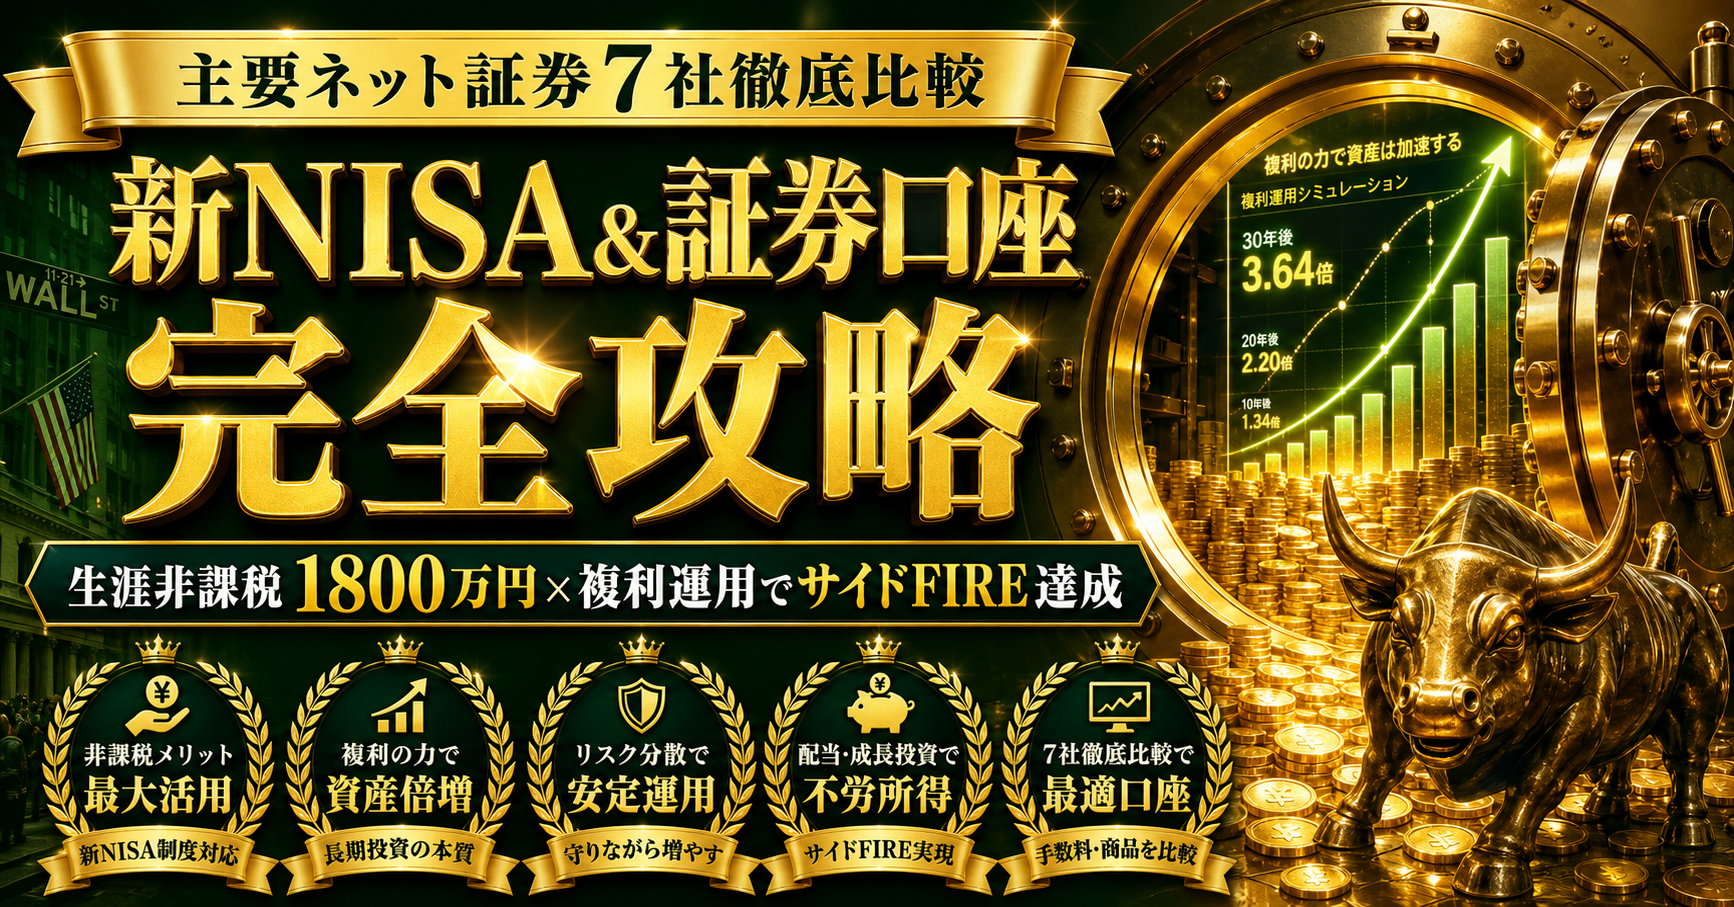
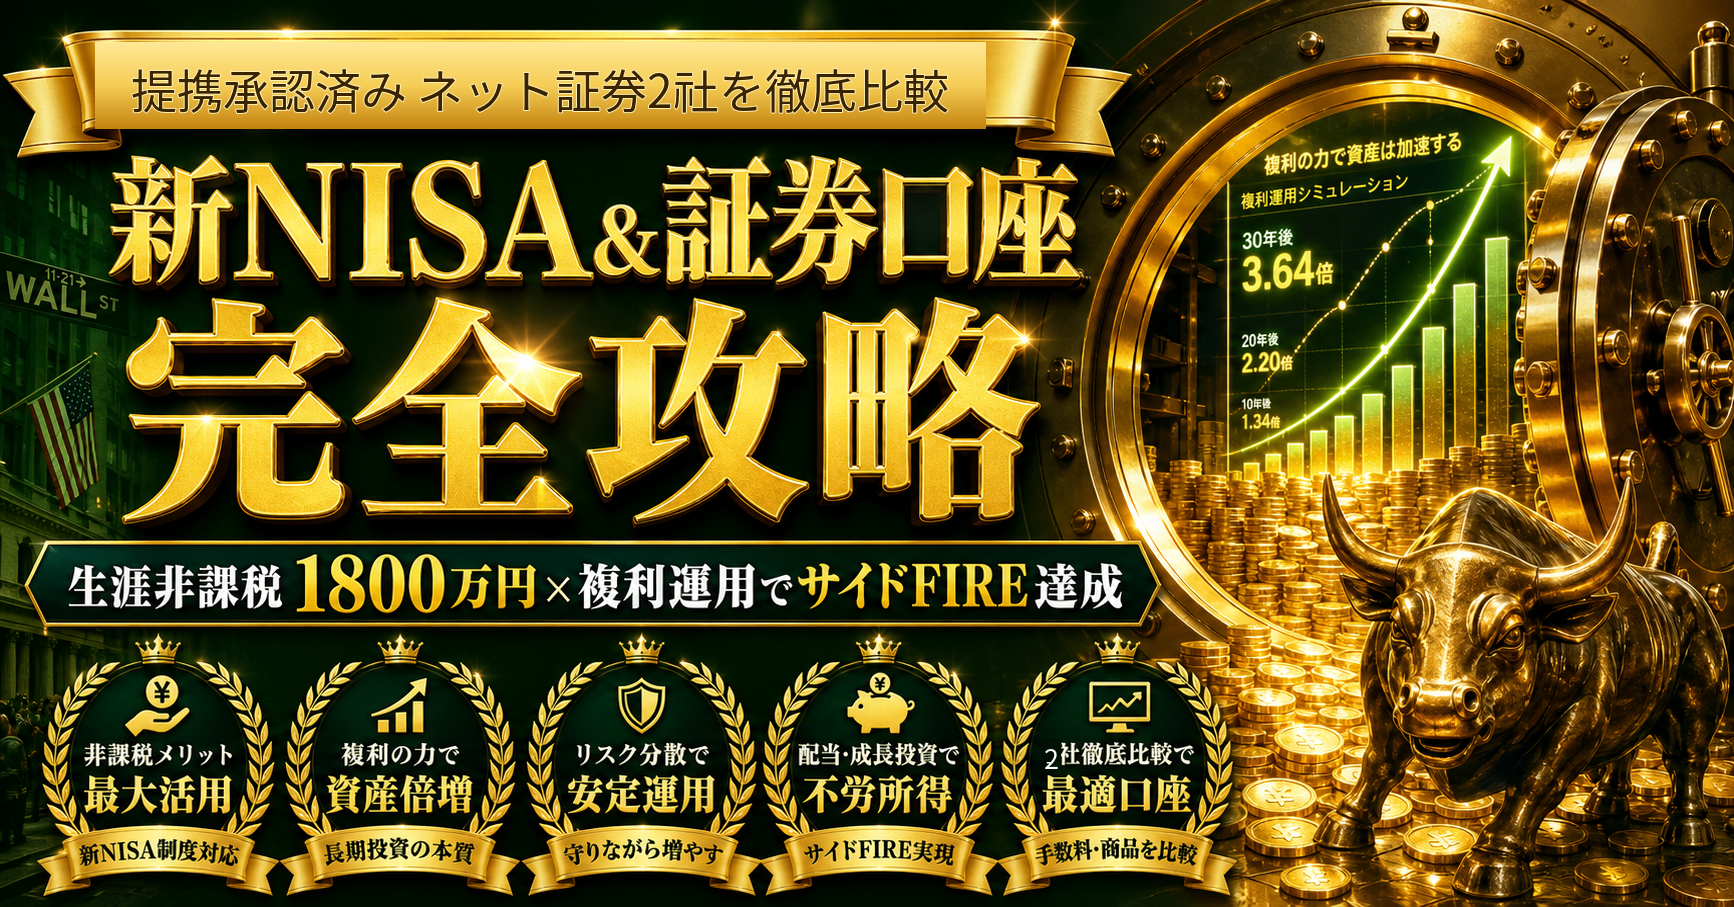
fix: ヘッダーのナビ折り返し崩れを修正、証券バナーを「2社比較」表記に更新

Changed region(s): [[0.0311, 0.0309, 0.5917, 0.1544]]

diff --git a/css/style.css b/css/style.css
@@ -88,6 +88,8 @@ header {
 }
 
 .logo {
+  white-space: nowrap;
+  flex-shrink: 0;
   font-size: 19px;
   font-weight: 800;
   color: #fff;
@@ -110,11 +112,16 @@ header {
 nav {
   display: flex;
   gap: 16px;
+  flex-wrap: nowrap;
+  overflow-x: auto;
+  min-width: 0;
 }
 
 nav a {
   color: #cbd5e1;
   text-decoration: none;
+  white-space: nowrap;
+  flex-shrink: 0;
   font-size: 13.5px;
   font-weight: 600;
   transition: color 0.2s;

diff --git a/fire/css/fire.css b/fire/css/fire.css
@@ -89,6 +89,7 @@ nav {
 nav a {
   color: #e2e8f0;
   text-decoration: none;
+  white-space: nowrap;
   font-size: 14px;
   font-weight: 600;
   transition: color 0.2s;
